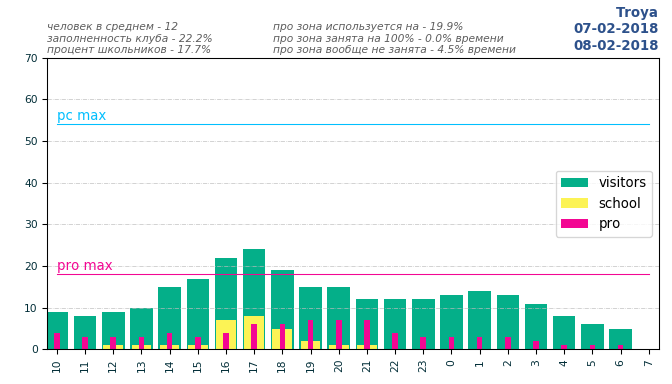
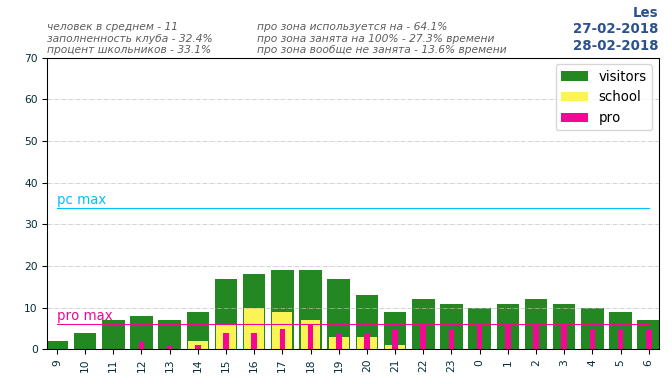
fix mod graph

diff --git a/cstatn/dataproc/data_proc.py b/cstatn/dataproc/data_proc.py
@@ -67,9 +67,6 @@ def get_data_every_time(data: pd.DataFrame,
              'visitor']
     list_res = []
 
-
-
-
     club = data["club"][0]
     date = data["dt"][0]
     for h in list_work_hours:
@@ -80,7 +77,7 @@ def get_data_every_time(data: pd.DataFrame,
         lst.extend(ser[m_col].mean())
         lst.append(measur)
         list_res.append(lst)
-    col =  data.columns.tolist()
+    col = data.columns.tolist()
     col.append("measur")
     res = pd.DataFrame(list_res, columns=col)
     return res
@@ -188,8 +185,8 @@ def measurements_hour(data):
     # TODO SDFG
     return 12
 
-def list_work_hours(data: pd.DataFrame, work_time: dict):
 
+def list_work_hours(data: pd.DataFrame, work_time: dict):
     sdate_time = data["data_time"].min()
 
     edate_time = data["data_time"].max()
@@ -203,14 +200,12 @@ def list_work_hours(data: pd.DataFrame, work_time: dict):
 
     stime = datetime.datetime.strptime(work_time["start"], "%H:%M").time()
 
-
     start_date = datetime.datetime.combine(sdate, stime)
     end_date = datetime.datetime.combine(edate, etime)
 
-
-
     hour_list = data[data["data_time"].between(start_date, end_date)]["mhour"].unique()
     return hour_list
+
 
 def get_mean_people(visitor, r=0):
     lenght = len(visitor)
@@ -315,3 +310,8 @@ def date_colors(dates, weekend_days, week_color, work_color):
 def measurements_in_day(data, start, end):
     one_day_data = data[data["data_time"].between(start, end)]
     return one_day_data["mhour"].unique().size
+
+
+def measurements(data, ndigits=1):
+    all_lst = [x for x in data if x > 0]
+    return round(sum(all_lst) / len(all_lst), 2)

diff --git a/cstatn/gui/graph.py b/cstatn/gui/graph.py
@@ -140,7 +140,7 @@ class GraphicsWidget(QtWidgets.QWidget):
         pp = PurePath(path).parts
         a = os.path.join(*pp[:2])
         b = pp[-1]
-        return "{} ... {}".format(a, b)
+        return "{}".format(b)
 
     def __init_date_widgets(self):
         yesterday_dt = datetime.datetime.now() - datetime.timedelta(
@@ -314,7 +314,9 @@ class GraphicsWidget(QtWidgets.QWidget):
 
                 self.current_club_cfg["week_day_num"],
                 "r", "black")
-
+            data_dict["meas_visitor"] = dproc.measurements(data_dict["d_visitor"],
+                                                           ndigits=2)
+            print(data_dict)
             return data_dict
         else:
             return None
@@ -356,6 +358,9 @@ class GraphicsWidget(QtWidgets.QWidget):
                 color=self.current_club_cfg["pro_color"],
                 text="pro max")
 
+            text1 = "человек в среднем - {}".format(data.get("meas_visitor"))
+            self.plot_view.text(text1, 'left-top-over')
+            self.plot_view.text("text2", "center-top-over")
             self.show_plot(self.plot_view)
 
     def get_one_shift_data(self, controller_data):

diff --git a/cstatn/gui/plot/plot.py b/cstatn/gui/plot/plot.py
@@ -99,10 +99,13 @@ class Graphic:
                  #       'pad': 5, 'boxstyle': 'round,pad=1'}
 
     def pos(self, pos_str):
+
         xmin, xmax, ymin, ymax = plt.axis()
+
         pos = {}
         pos[("left-top-over")] = xmin, ymax+1
-        pos[("center-top-over")] = xmax/2-3, ymax+1
+        pos[("center-top-over")] = xmax/2-xmax/6, ymax+1
+        print(xmax, "------------")
         return pos[pos_str]
 
     def text(self, text, pos_str):
